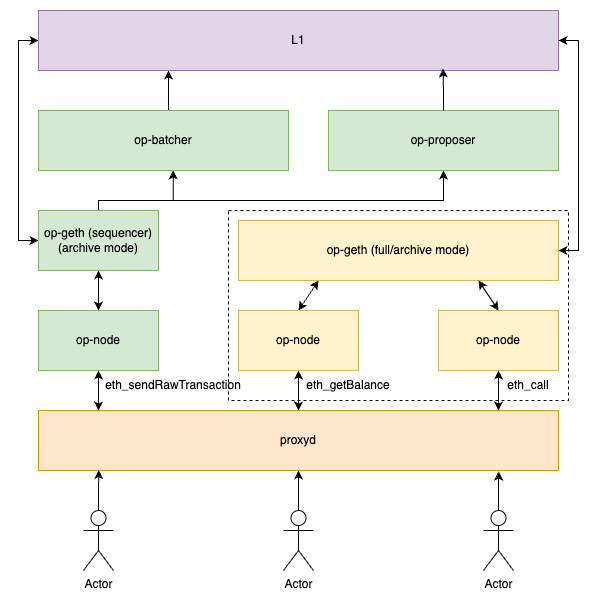
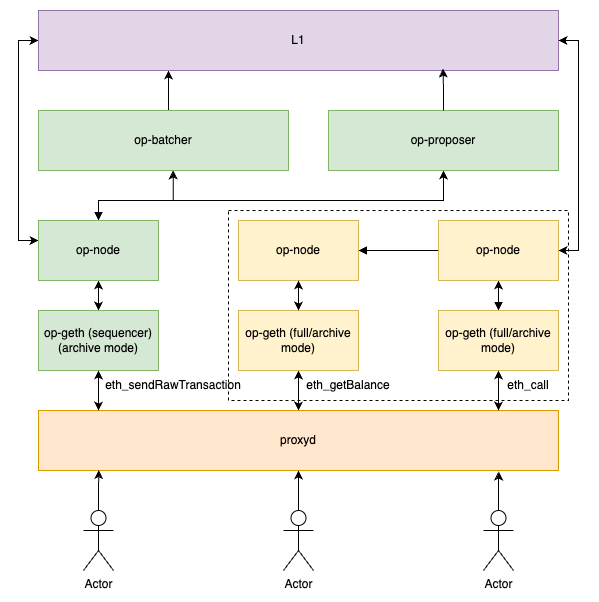
migrations specifications and diagram fix

diff --git a/docs/research.md b/docs/research.md
@@ -116,7 +116,7 @@ We have decided to develop our own CLI and infrastructure tooling to create a mo
 - `deploy <contracts | infra | all>`:
 
   - `contracts`: Deploys contracts to L1 and generates the necessary files for connecting to it, `genesis.json`, `rollup.json`, etc.
-  - `infra`: Updates the default `values.yaml` file in the Helm chart with the latest config and deploys the infrastructure to the cloud provider via Terraform (initially AWS).
+  - `infra`: Creates a kubernetes cluster as leveraging terraform and based on user input configures and installs charts for core (as sequencer or replica), explorer, monitoring, etc.
   - `all`: Deploys contracts and then deploys the infrastructure.
   - With a full configuration, this command can be run on it's own. It will serve as the starting point when accessed from the UI.
 
@@ -143,13 +143,20 @@ deployments/
       network.json
       addresses.json
       ...
-infra/
-  terraform/
+infrastructure/
+  provider/
     aws/
     gcp/
-    others...
-  docker/
-	helm/
+    ...
+  images/
+    contracts.dockerfile
+    node.dockerfile
+    ...
+	charts/
+    opstack/
+    blockscout/
+    monitoring/
+    ...
 src/
 	contracts/
 	node/
@@ -167,7 +174,7 @@ config.toml
 - For deployment, we will leverage **Kubernetes** to coordinate all services and enable scaling. We will combine this with **Helm** for simple deployment customization and management, along with **Terraform** to specify resources and provide a seamless one-click experience.
 - One key reason for selecting **Kubernetes** over other solutions is its broad compatibility with various cloud providers. This ensures that users can choose where to host their chain while minimizing setup differences. While we will provide Terraform configurations for a few cloud vendors, the Helm chart will be open for users to deploy anywhere they prefer.
 - As outlined in the [documentation](https://docs.optimism.io/builders/chain-operators/tools/chain-monitoring#offchain-component-monitoring), we will include **Prometheus** and **Grafana** services in the deployment chart, along with preconfigured dashboards for Grafana. This will provide users with a robust monitoring system out of the box.
-- With our rust cli we'll make developments and deployments a one command thing, adjusting values.yaml, installing dependencies, waiting for processes, etc.
+- With our rust cli we'll make developments and deployments a one command thing, adjusting values, installing dependencies, waiting for processes, etc.
 
 **Scaling Diagram:**
 
@@ -186,7 +193,13 @@ To allow the sequencer to focus on creating new transactions, we will set up nod
 - Cache immutable responses from backends.
 - Provide metrics to measure request latency, error rates, and more.
 
-Regarding networking, only **proxyd** and the analytics services will be exposed.
+Regarding networking, only **proxyd**, **explorer** and **monitoring** services will be exposed.
+
+Building on this, we will also enable the deployment of replica nodes independently. Through a single configuration chart, users will be able to enable or disable the sequencer component, providing flexibility for external users to deploy and manage their own nodes with ease. This feature will be crucial not only for enhancing network scalability and redundancy but also for supporting vendor migrations and ensuring data persistence, as we will discuss further in the following sections.
+
+### Provider Migrations and Backups
+
+To facilitate vendor flexibility and ensure the persistence of blockchain data, we will leverage the distributed nature of the blockchain itself. Our solution will allow users to easily switch between providers by spinning up replica nodes. We will encourage clients to set up these replica nodes from the outset, so that if the primary sequencer encounters issues, already-synced nodes can seamlessly take over the sequencer role. This transition will be governed by on-chain permissions and new payment contract arrangements. Additionally, if needed, new nodes can be launched and synchronized with the existing replica data. These replica nodes will enhance the network’s request capacity, bolster security, and will be open to anyone wishing to participate in running them.
 
 ### Block Explorer
 
@@ -273,6 +286,10 @@ The marketplace will be integrated into the Ruaas website as another page. The m
 - **Monitoring the Relationship**: Both the vendor and client can monitor the status of their relationship, including balances, health status, and service endpoints. This will allow them to track contract progress and performance in real time.
 - **L1 Contract Deployment**: The website can assist in facilitating the deployment of L1 contracts, but the client is ultimately responsible for initiating the deployment and ensuring the security of their Admin keys.
 
+### Vendor migration
+
+For vendor migrations we'll take the same procedure as specified for `Provider Migrations and Backups`. We'll facilitate switching a node from replica to sequencer as well as encouraging the client to spin up those extra replicas from the get go as a safety mode. Our ui will list the nodes the user is paying for and the mode in which they're running.
+
 ## Risks and uncertainties
 
 - Given that the CLI makes it very easy to deploy new chains using the Optimism stack, the marketplace will aim to cater to those who do not want to be involved in infrastructure management.
@@ -287,8 +304,8 @@ At this point, we want to assess the feasibility of pursuing the decentralized m
 
 Stipulated timelines:
 
-- **Contracts Development**: 3 weeks
-- **Contracts Integration** (including cronjob for vendors to call oracles and UI integration): 3 weeks
+- **Contracts Development**: 5 weeks
+- **Contracts Integration** (including cronjob for vendors to call oracles and UI integration): 4 weeks
 
 If decentralized marketplace is not pursued we can instead:
 

diff --git a/README.md b/README.md
@@ -24,7 +24,7 @@ To run it all smoothly we recommend:
 Recommended PC specifications to run it all smoothly:
 
 - 16 GB RAM
-- - 25 GB storage available on top of installed programs
+- 25+ GB storage available on top of installed programs
 
 ### Commands
 
